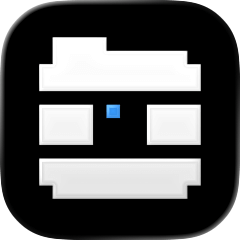
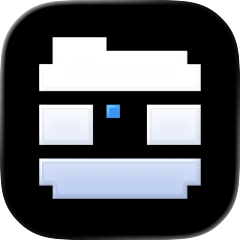
cbnote v2.0

Changed region(s): [[0.1458, 0.6708, 0.8458, 0.8458]]

diff --git a/src/posts/2026/2026-02-20-cbnote2.0.md b/src/posts/2026/2026-02-20-cbnote2.0.md
@@ -1,0 +1,39 @@
+---
+layout: "post"
+lang: "en"
+permalink: "/posts/cbnote2.0/"
+title: "CBNote 2.0 is out"
+icon: "/assets/projects/cbnote/icon.png"
+tags: ['cbnote']
+---
+
+- Added a feature to record audio notes
+- Added a feature to import files
+- Removed the "Locked Camera Action" setting and now it is automatically configured according to "Camera Control Action"
+- Added a search engine setting for web searches
+- Removed the screen width limitation
+- Made minor adjustments to the app icon
+- Changed the icon for the "Open CBNote" control in the Control Center
+- Made some other adjustments
+- Enabled some features that were previously unavailable on macOS
+  - Enabled camera
+  - Added a Translate button to the context menu
+
+Update is available on the [App Store]({{ collections.projects.cbnote.links.appstore }}) and [AltStore PAL]({{ site.links.altstore }}).
+
+<details lang="ja">
+<summary>日本語</summary>
+
+- 音声ノートを録音して作成できるようにしました
+- ファイルをインポートできるようにしました
+- 「ロック中のカメラの動作」の設定を削除して、「カメラコントロールアクション」に合わせて自動で設定されるようにしました
+- Web検索するときの検索エンジンを設定できるようにしました
+- 画面の幅の制限を解除しました
+- アプリアイコンに微調整をしました
+- コントロールセンターの「CBNoteを開く」コントロールのアイコンを変更しました
+- その他いくつかの調整を行いました
+- macOSで利用できなかった機能の一部を利用できるようにしました
+  - カメラを利用できるようにしました
+  - コンテキストメニューにブラウザで開くボタンを追加しました
+
+</details>

diff --git a/src/projects/cbnote.md b/src/projects/cbnote.md
@@ -5,7 +5,7 @@ permalink: "/projects/cbnote/"
 title: "CBNote"
 description: "Replace Camera Control with Note app"
 icon: "/assets/projects/cbnote/icon.png"
-version: "1.8"
+version: "2.0"
 links:
   itunes_app: "6756120567"
   appstore: "https://apps.apple.com/app/cbnote/id6756120567"
@@ -52,8 +52,9 @@ In app settings, you can choose the action for launching from Camera Control fro
 - Launch In-App Camera
 - Paste from Clipboard
 - Add New Note
-- Open App Only
-- Open URL
+- Start Audio Recording
+- Open CBNote Only
+- Open Custom URL
 
 And other features:
 
